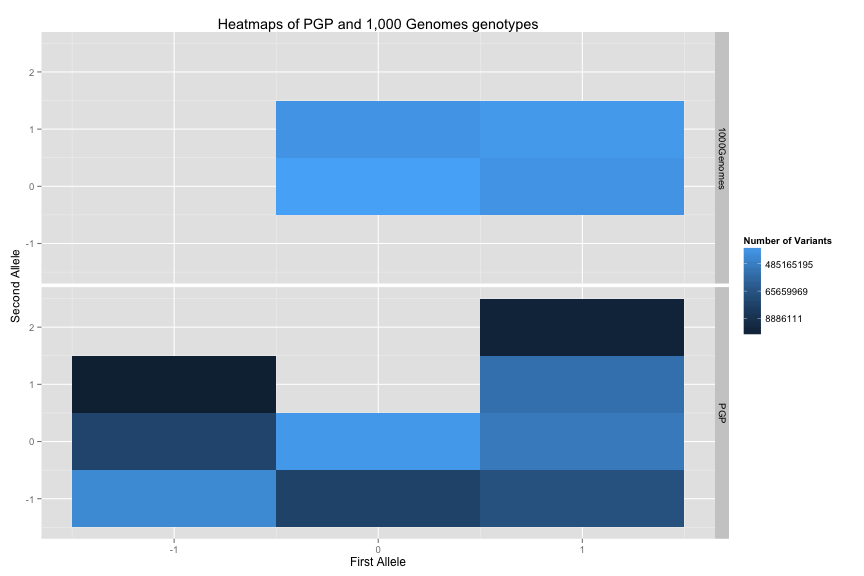
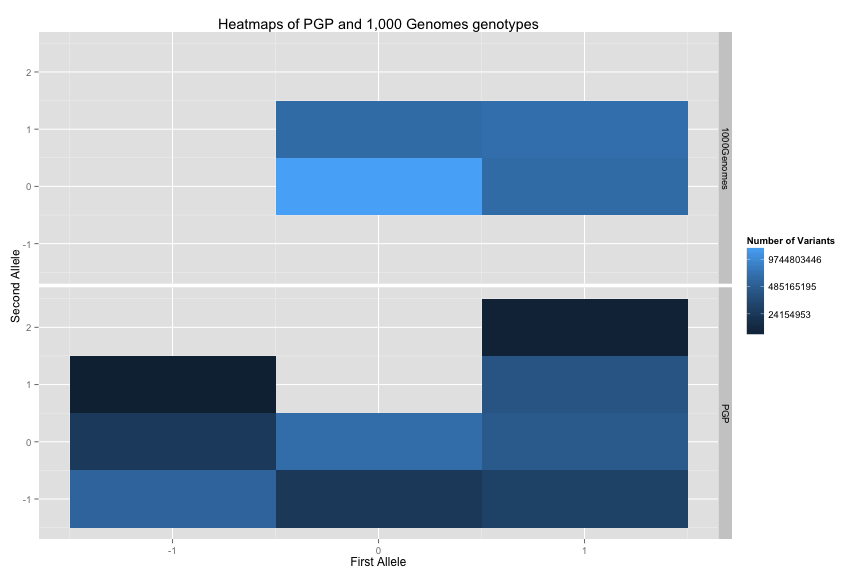
Update table names and re-render.

diff --git a/pgp/data-stories/comparing-pgp-to-1000genomes/README.md b/pgp/data-stories/comparing-pgp-to-1000genomes/README.md
@@ -51,7 +51,7 @@ FROM (
     COUNT(reference_name) AS cnt,
     'PGP' AS dataset
   FROM
-    [google.com:biggene:pgp_20150205.variants_cgi_only]
+    [google.com:biggene:pgp_20150205.genome_calls]
   # The source data was Complete Genomics which includes non-variant segments.
   OMIT RECORD IF EVERY(alternate_bases IS NULL)
   GROUP BY
@@ -62,16 +62,16 @@ ORDER BY
 ```
 
 We see the first few tabular results:
-<!-- html table generated in R 3.1.2 by xtable 1.7-4 package -->
-<!-- Tue Apr 14 07:52:05 2015 -->
+<!-- html table generated in R 3.2.2 by xtable 1.7-4 package -->
+<!-- Thu Nov 19 17:22:11 2015 -->
 <table border=1>
 <tr> <th> reference_name </th> <th> cnt </th> <th> dataset </th>  </tr>
   <tr> <td> 1 </td> <td align="right"> 3007196 </td> <td> 1000Genomes </td> </tr>
-  <tr> <td> 1 </td> <td align="right"> 3152732 </td> <td> PGP </td> </tr>
+  <tr> <td> 1 </td> <td align="right"> 2840932 </td> <td> PGP </td> </tr>
   <tr> <td> 10 </td> <td align="right"> 1882663 </td> <td> 1000Genomes </td> </tr>
-  <tr> <td> 10 </td> <td align="right"> 1891393 </td> <td> PGP </td> </tr>
+  <tr> <td> 10 </td> <td align="right"> 1717853 </td> <td> PGP </td> </tr>
   <tr> <td> 11 </td> <td align="right"> 1894908 </td> <td> 1000Genomes </td> </tr>
-  <tr> <td> 11 </td> <td align="right"> 1995608 </td> <td> PGP </td> </tr>
+  <tr> <td> 11 </td> <td align="right"> 1798453 </td> <td> PGP </td> </tr>
    </table>
 
 <img src="figure/variant counts-1.png" title="plot of chunk variant counts" alt="plot of chunk variant counts" style="display: block; margin: auto;" />
@@ -100,7 +100,7 @@ FROM (
       LENGTH(reference_bases) AS ref_len,
       MAX(LENGTH(alternate_bases)) WITHIN RECORD AS alt_len,
     FROM
-      [google.com:biggene:pgp_20150205.variants_cgi_only]
+      [google.com:biggene:pgp_20150205.genome_calls]
     # The source data was Complete Genomics which includes non-variant segments.
     OMIT RECORD IF EVERY(alternate_bases IS NULL)
       )
@@ -129,15 +129,15 @@ Notice that PGP has no column indicating variant type, so it is inferred from th
 data was imported from Complete Genomics masterVar files which do not contain structural variants.
 
 We see the first few tabular results:
-<!-- html table generated in R 3.1.2 by xtable 1.7-4 package -->
-<!-- Tue Apr 14 07:52:11 2015 -->
+<!-- html table generated in R 3.2.2 by xtable 1.7-4 package -->
+<!-- Thu Nov 19 17:22:14 2015 -->
 <table border=1>
 <tr> <th> reference_name </th> <th> vt </th> <th> cnt </th> <th> dataset </th>  </tr>
   <tr> <td> 1 </td> <td> INDEL </td> <td align="right">  109119 </td> <td> 1000Genomes </td> </tr>
   <tr> <td> 1 </td> <td> SNP </td> <td align="right"> 2896960 </td> <td> 1000Genomes </td> </tr>
   <tr> <td> 1 </td> <td> SV </td> <td align="right">    1117 </td> <td> 1000Genomes </td> </tr>
-  <tr> <td> 1 </td> <td> INDEL </td> <td align="right"> 1256100 </td> <td> PGP </td> </tr>
-  <tr> <td> 1 </td> <td> SNP </td> <td align="right"> 1896632 </td> <td> PGP </td> </tr>
+  <tr> <td> 1 </td> <td> INDEL </td> <td align="right"> 1059880 </td> <td> PGP </td> </tr>
+  <tr> <td> 1 </td> <td> SNP </td> <td align="right"> 1781052 </td> <td> PGP </td> </tr>
   <tr> <td> 10 </td> <td> INDEL </td> <td align="right">   67865 </td> <td> 1000Genomes </td> </tr>
    </table>
 
@@ -169,7 +169,7 @@ FROM (
     call.callset_name,
     GROUP_CONCAT(STRING(call.genotype)) WITHIN call AS genotype,
   FROM
-    [google.com:biggene:pgp_20150205.variants_cgi_only]
+    [google.com:biggene:pgp_20150205.genome_calls]
   WHERE
     reference_name = 'chr3'
     AND start = 65440409)
@@ -185,17 +185,17 @@ ORDER BY
 ```
 
 We see the tabular results:
-<!-- html table generated in R 3.1.2 by xtable 1.7-4 package -->
-<!-- Tue Apr 14 07:52:15 2015 -->
+<!-- html table generated in R 3.2.2 by xtable 1.7-4 package -->
+<!-- Thu Nov 19 17:22:17 2015 -->
 <table border=1>
 <tr> <th> reference_name </th> <th> start </th> <th> reference_bases </th> <th> alternate_bases </th> <th> genotype </th> <th> number_of_individuals </th>  </tr>
   <tr> <td> chr3 </td> <td align="right"> 65440409 </td> <td> = </td> <td>  </td> <td> -1,-1 </td> <td align="right">   3 </td> </tr>
   <tr> <td> chr3 </td> <td align="right"> 65440409 </td> <td> A </td> <td>  </td> <td> 0,-1 </td> <td align="right">   1 </td> </tr>
   <tr> <td> chr3 </td> <td align="right"> 65440409 </td> <td> A </td> <td> AAC </td> <td> 1,-1 </td> <td align="right">   3 </td> </tr>
-  <tr> <td> chr3 </td> <td align="right"> 65440409 </td> <td> A </td> <td> AAC,C </td> <td> 1,2 </td> <td align="right">  39 </td> </tr>
+  <tr> <td> chr3 </td> <td align="right"> 65440409 </td> <td> A </td> <td> AAC,C </td> <td> 1,2 </td> <td align="right">  37 </td> </tr>
   <tr> <td> chr3 </td> <td align="right"> 65440409 </td> <td> A </td> <td> AC,C </td> <td> 1,2 </td> <td align="right">   3 </td> </tr>
-  <tr> <td> chr3 </td> <td align="right"> 65440409 </td> <td> A </td> <td> C </td> <td> 1,1 </td> <td align="right">  51 </td> </tr>
-  <tr> <td> chr3 </td> <td align="right"> 65440409 </td> <td> A </td> <td> C </td> <td> 1,0 </td> <td align="right">  30 </td> </tr>
+  <tr> <td> chr3 </td> <td align="right"> 65440409 </td> <td> A </td> <td> C </td> <td> 1,1 </td> <td align="right">  43 </td> </tr>
+  <tr> <td> chr3 </td> <td align="right"> 65440409 </td> <td> A </td> <td> C </td> <td> 1,0 </td> <td align="right">  28 </td> </tr>
   <tr> <td> chr3 </td> <td align="right"> 65440409 </td> <td> A </td> <td> C </td> <td> 1,-1 </td> <td align="right">  15 </td> </tr>
   <tr> <td> chr3 </td> <td align="right"> 65440409 </td> <td> A </td> <td> C,A? </td> <td> 1,2 </td> <td align="right">   1 </td> </tr>
    </table>
@@ -215,7 +215,7 @@ FROM (
   SELECT
     GROUP_CONCAT(STRING(call.genotype)) WITHIN call AS genotype,
   FROM
-    [google.com:biggene:pgp_20150205.variants_cgi_only])
+    [google.com:biggene:pgp_20150205.genome_calls])
 GROUP BY
   genotype
 ORDER BY
@@ -223,19 +223,19 @@ ORDER BY
 ```
 
 We see the tabular results:
-<!-- html table generated in R 3.1.2 by xtable 1.7-4 package -->
-<!-- Tue Apr 14 07:52:17 2015 -->
+<!-- html table generated in R 3.2.2 by xtable 1.7-4 package -->
+<!-- Thu Nov 19 17:22:19 2015 -->
 <table border=1>
 <tr> <th> genotype </th> <th> cnt </th>  </tr>
-  <tr> <td> 0,0 </td> <td align="right"> 1617064977 </td> </tr>
-  <tr> <td> -1,-1 </td> <td align="right"> 859682994 </td> </tr>
-  <tr> <td> 1,0 </td> <td align="right"> 404668224 </td> </tr>
-  <tr> <td> 1,1 </td> <td align="right"> 257838585 </td> </tr>
-  <tr> <td> 1,-1 </td> <td align="right"> 64951310 </td> </tr>
-  <tr> <td> 0,-1 </td> <td align="right"> 50308594 </td> </tr>
-  <tr> <td> -1,0 </td> <td align="right"> 27453413 </td> </tr>
-  <tr> <td> 1,2 </td> <td align="right"> 3289958 </td> </tr>
-  <tr> <td> -1,1 </td> <td align="right"> 2329453 </td> </tr>
+  <tr> <td> 0,0 </td> <td align="right"> 1505664389 </td> </tr>
+  <tr> <td> -1,-1 </td> <td align="right"> 806555820 </td> </tr>
+  <tr> <td> 1,0 </td> <td align="right"> 373226428 </td> </tr>
+  <tr> <td> 1,1 </td> <td align="right"> 238037789 </td> </tr>
+  <tr> <td> 1,-1 </td> <td align="right"> 59592931 </td> </tr>
+  <tr> <td> 0,-1 </td> <td align="right"> 47766546 </td> </tr>
+  <tr> <td> -1,0 </td> <td align="right"> 25515702 </td> </tr>
+  <tr> <td> 1,2 </td> <td align="right"> 2593250 </td> </tr>
+  <tr> <td> -1,1 </td> <td align="right"> 2033919 </td> </tr>
    </table>
 
 Comparing this to 1,000 Genomes:
@@ -246,7 +246,8 @@ SELECT
   first_allele,
   second_allele,
   dataset,
-  COUNT(1) AS cnt
+  # Convert integer to float to avoid numeric overflow in R for integers.
+  FLOAT(COUNT(1)) AS cnt
 FROM (
   SELECT
     NTH(1, call.genotype) WITHIN call AS first_allele,
@@ -261,7 +262,7 @@ FROM (
     NTH(2, call.genotype) WITHIN call AS second_allele,
     'PGP' AS dataset
   FROM
-    [google.com:biggene:pgp_20150205.variants_cgi_only]
+    [google.com:biggene:pgp_20150205.genome_calls]
   OMIT RECORD IF reference_name IN ('chrX', 'chrY', 'chrM'))
 GROUP BY
   first_allele,
@@ -271,5 +272,6 @@ GROUP BY
 
 <img src="figure/genotype heatmap-1.png" title="plot of chunk genotype heatmap" alt="plot of chunk genotype heatmap" style="display: block; margin: auto;" />
 The two most notable aspects of these heatmaps is:
+
   1. PGP does have some autosomal variants with more than one alternate allele wherease the 1,000 Genomes phase 1 data is biallelic for the autosomes
-  1. PGP contains no-calls where as 1,000 Genomes had additional processing to impute genotypes at all sites
+  2. PGP contains no-calls where as 1,000 Genomes had additional processing to impute genotypes at all sites
